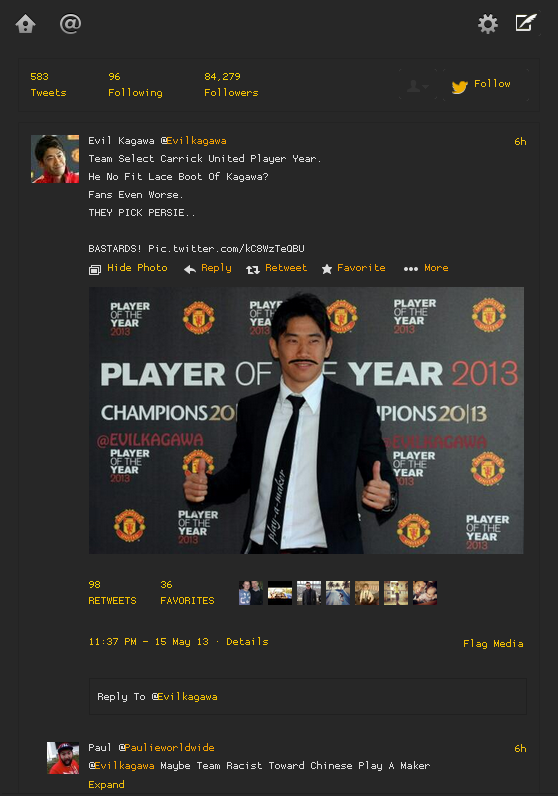
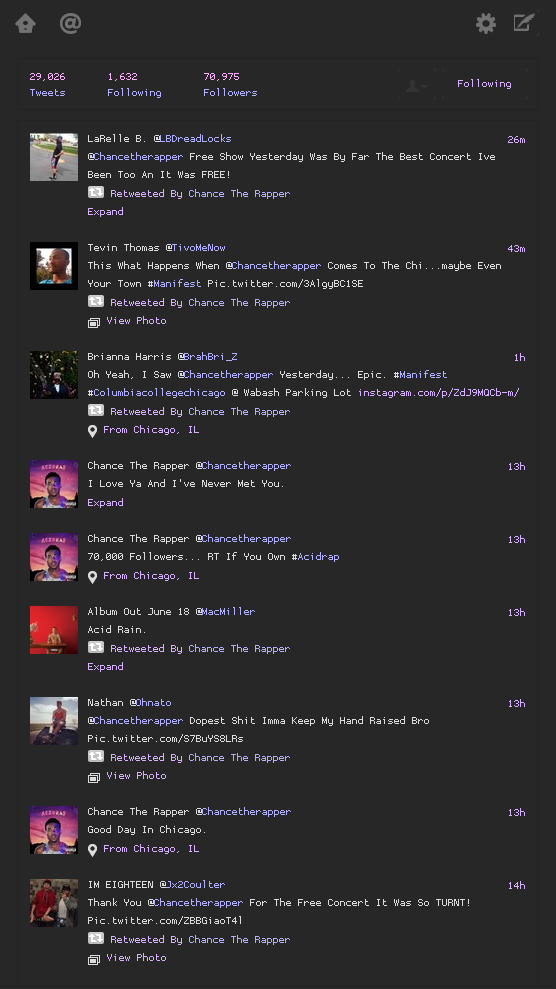
..

diff --git a/Twitter.css b/Twitter.css
@@ -9,7 +9,6 @@ body {
   text-transform: capitalize !important;
 }
 
-
 /*Colours*/
 
 /*dcdcdc*/
@@ -120,22 +119,25 @@ b, .fullname{
 
 /*Highlight Colours*/
 .new-tweets-bar, .nav, a, .btn-link, .dropdown-menu li > a:hover, .dropdown-menu li > a:focus, .dropdown-menu .dropdown-link:hover, .dropdown-menu .dropdown-link:focus, .dropdown-menu .selected a, .dropdown-menu .dropdown-link.selected, .btn-link:focus, .pretty-link b, .pretty-link:hover s, .pretty-link:hover b, .pretty-link:focus s, .pretty-link:focus b, .metadata a:hover, .metadata a:focus, .account-group:hover .fullname, .account-group:focus .fullname, .account-summary:focus .fullname, .stats a:hover, .stats a:hover strong, .stats a:focus, .stats a:focus strong, .profile-modal-header .fullname a:hover, .profile-modal-header .username a:hover, .profile-modal-header .fullname a:focus, .profile-modal-header .username a:focus, .story-article:hover .metadata, .story-article .metadata a:focus, .find-friends-sources li:hover .source, .stream-item a:hover .fullname, .stream-item a:focus .fullname, .stream-item .view-all-supplements:hover, .stream-item .view-all-supplements:focus, .tweet .time a:hover, .tweet .time a:focus, .tweet-actions a, .tweet .details.with-icn b, .stream-item:hover .original-tweet .expand-action-wrapper, .stream-item .original-tweet.focus .expand-action-wrapper, .opened-tweet.original-tweet .expand-action-wrapper, .stream-item:hover .original-tweet .details b, .stream-item .original-tweet.focus .details b, .stream-item.open .original-tweet .details b, .simple-tweet:hover .details b, .simple-tweet.focus .details b, .simple-tweet.open .details b, .simple-tweet:hover .details .expand-action-wrapper, .simple-tweet.focus .details .expand-action-wrapper, .simple-tweet.open .details .collapse-action-wrapper, .simple-tweet:hover .details .simple-details-link, .simple-tweet.focus .details .simple-details-link, .client-and-actions a:hover, .client-and-actions a:focus, .dismiss-promoted:hover b, .tweet .context .pretty-link:hover s, .tweet .context .pretty-link:hover b, .tweet .context .pretty-link:focus s, .tweet .context .pretty-link:focus b, .list .username a:hover, .list .username a:focus, .list-membership-container .create-a-list, .list-membership-container .create-a-list:hover, .story-header:hover .view-tweets, .card .list-details a:hover, .card .list-details a:focus, .card .card-body:hover .attribution, .card .card-body .attribution:focus, .events-card .card-body:hover .attribution, .events-card .card-body .attribution:focus, .new-tweets-bar, .onebox .soccer ul.ticker a:hover, .onebox .soccer ul.ticker a:focus, .discover-item-actions a, .remove-background-btn, .stream-item-activity-me .latest-tweet .tweet-row a:hover, .stream-item-activity-me .latest-tweet .tweet-row a:focus, .stream-item-activity-me .latest-tweet .tweet-row a:hover b, .stream-item-activity-me .latest-tweet .tweet-row a:focus b, .active a{
-  color: #F0bf03 !important;
+  color: #B0B0FF !important;
 }
 .actions, .js-actions a, span{
-  color: #F0bf0e !Important
+  color: #D7B0FF !Important
 }
 .tweet b{
-  color: #F09f03 !Important
+  color: #B0B0FF !Important
 }
 strong{
-  color: #f1cf03 !important;
+  color: #FEB0FF !important;
 }
 
 /*Misc*/
 .dropdown-caret, .caret-inner{
   border-left: 6px solid transparent !important;
   border-right: 6px solid transparent !important;
+}
+.modal-content{
+  box-shadow: 0px 0px 0px rgba(0, 0, 0, 0), 0px 0px 0px rgba(255, 255, 255, 0.) inset !important;
 }
 .js-timeline-title, .header-inner{
   display:none !important;
@@ -330,7 +332,7 @@ width: 522px !important;
   box-shadow: none !important;
 }  
 i, .icon{
-  background-image: url(http://i.imgur.com/ww5L0Tu.png) !important;
+  background-image: url(http://i.imgur.com/LNe1ERP.png) !important;
 }
 .account, .interest-category, .list, .saved-search, .tweet, .app{
   border-bottom: none !important
